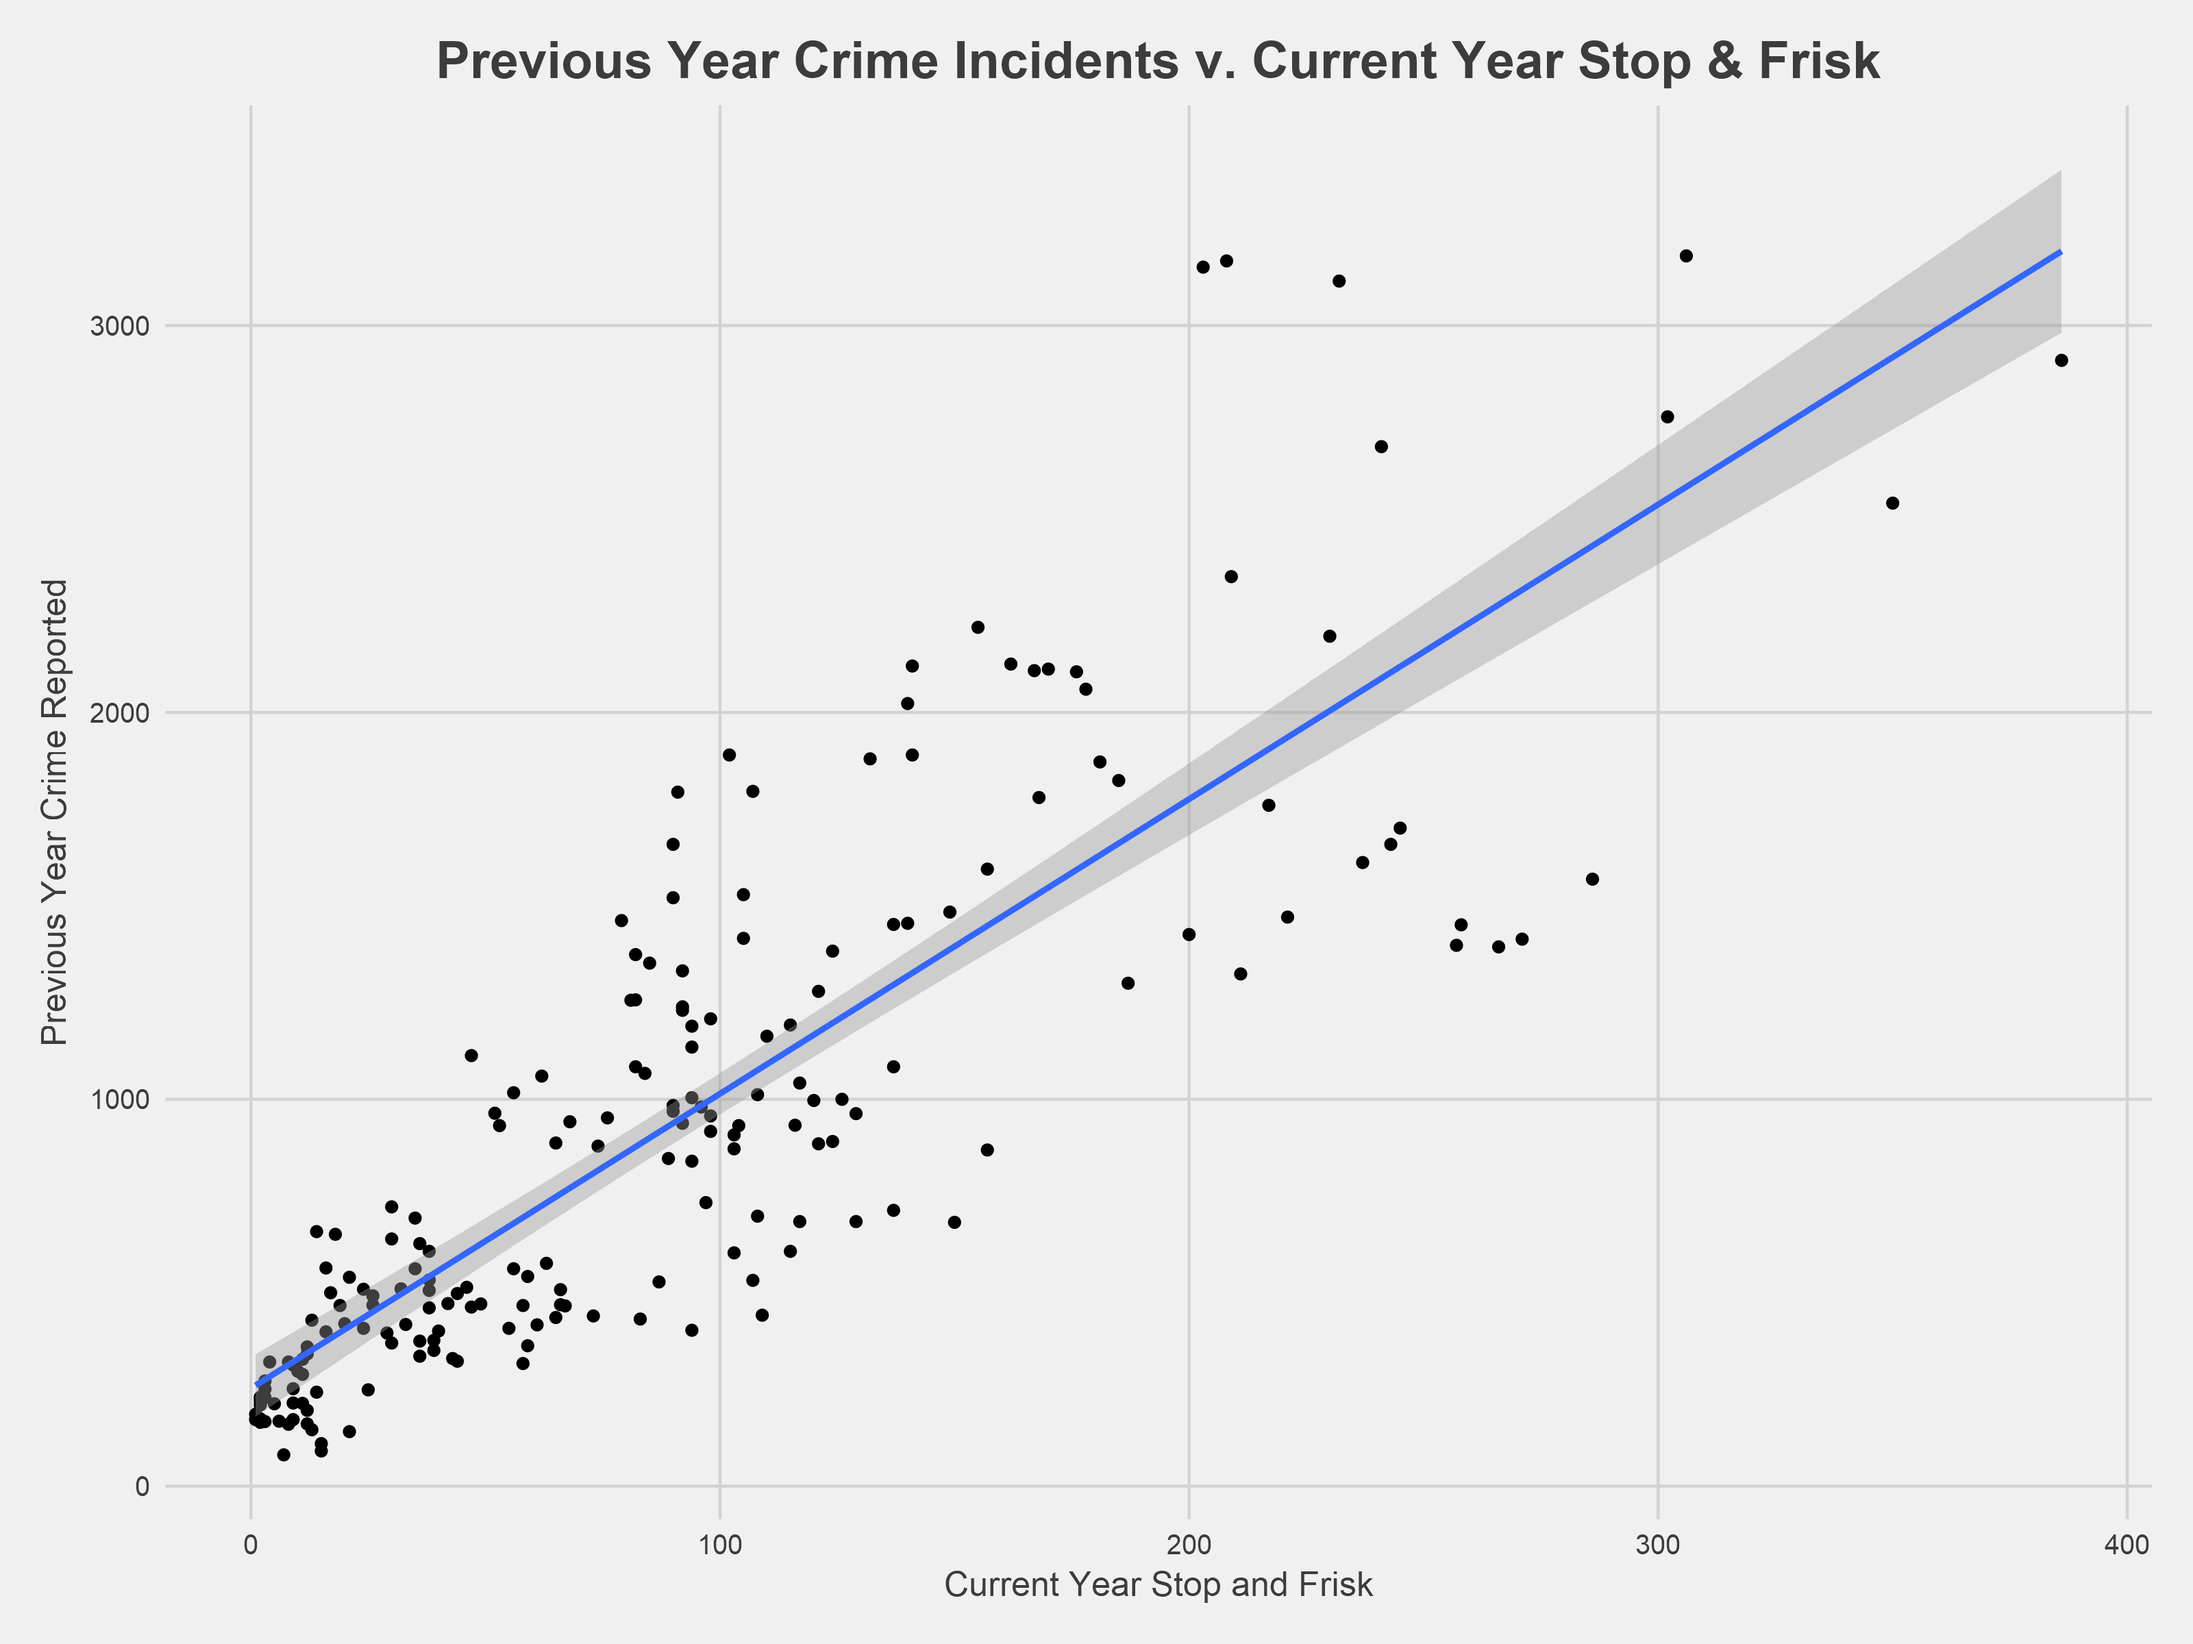
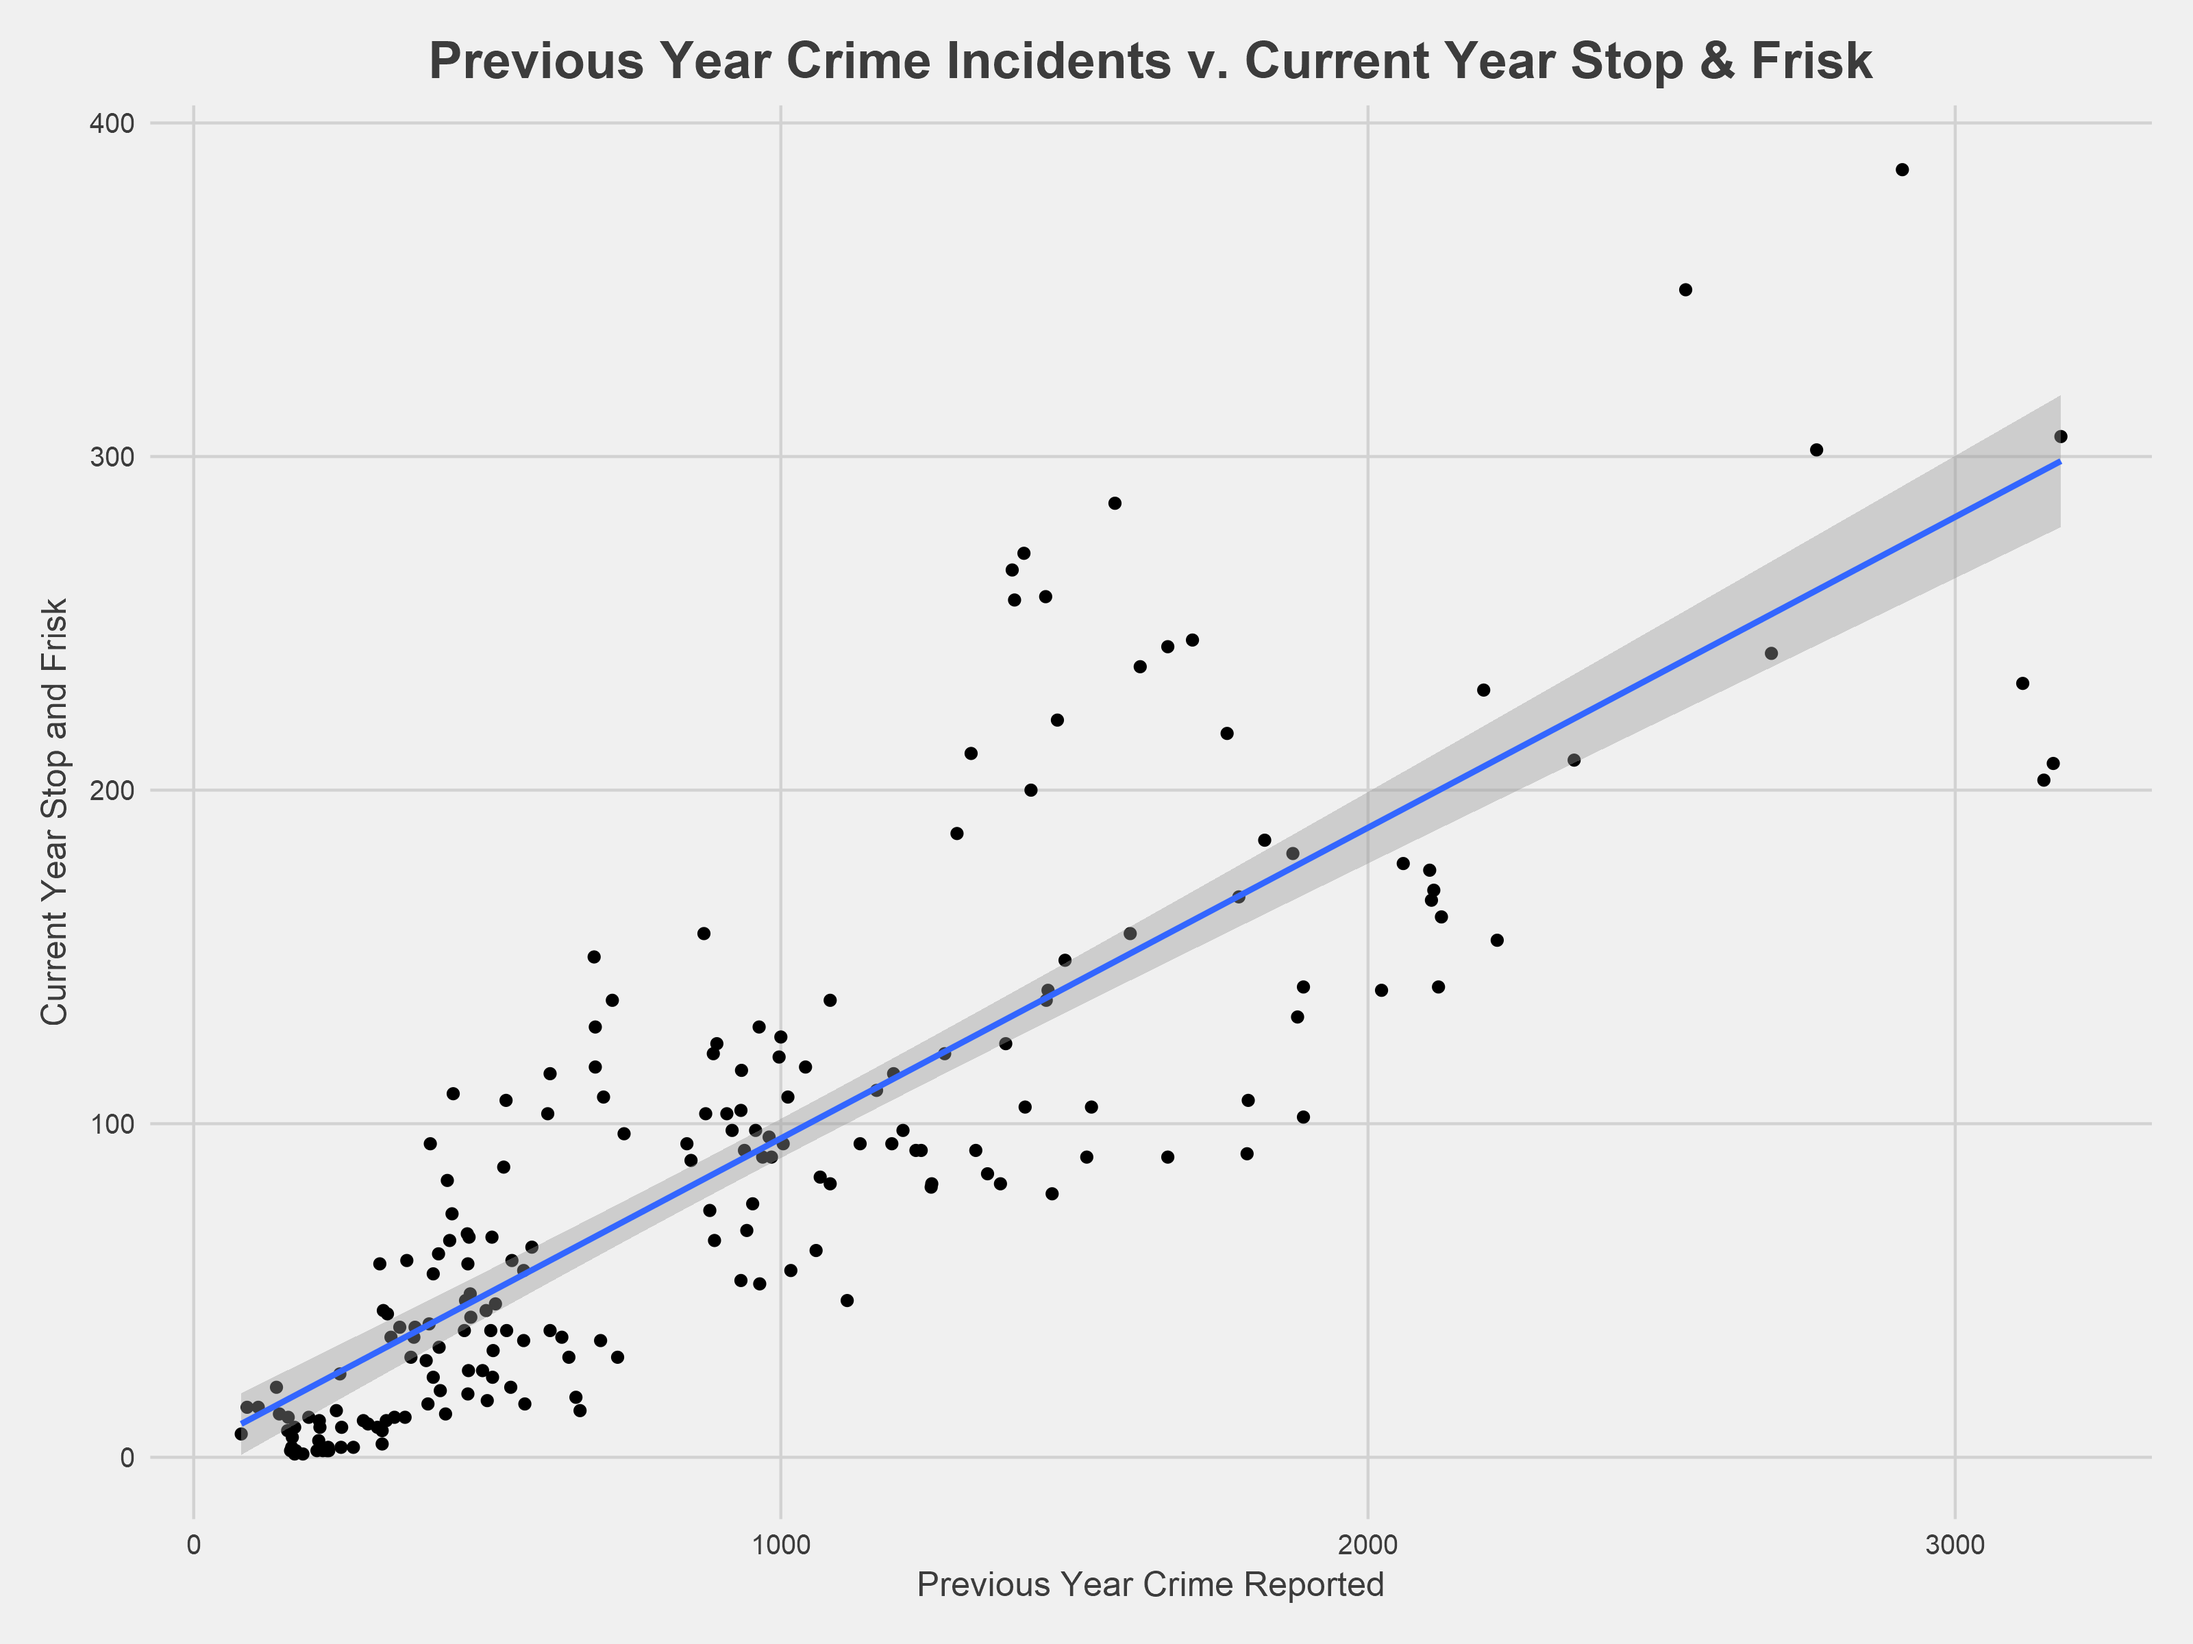
Stop & Frisk: Flipping Crime/Stop Scatter axes

diff --git a/_posts/2018-05-09-Stop-_-Frisk.md b/_posts/2018-05-09-Stop-_-Frisk.md
@@ -100,6 +100,7 @@ Once we were able to transform the addresses to latitude and longitude, for this
 <figure class="video_container">
 <iframe width="800" height="600" src="https://rawgit.com/mahkah/dc_stop_and_frisk/master/index.html" frameborder="0" allowfullscreen="true"></iframe>
 </figure>
+<br>
 
 Stop & Frisk: Neighborhoods
 --------------
@@ -113,7 +114,7 @@ The interactive visualization below lets you dig into some basic trends and demo
 <figure class="video_container">
 <iframe width="800" height="600" src="https://dc-stop-frisk.herokuapp.com/" frameborder="0" allowfullscreen="true"></iframe>
 </figure>
-
+<br>
 
 ![](https://raw.githubusercontent.com/GWarrenn/gwarrenn.github.io/drafts/images/stop_and_frisk/05_nbh_sf.gif)
 
@@ -144,6 +145,7 @@ The biggest disproportions are apparent in whiter, more affluent neighborhood cl
 Additionally, the table below lists out the actual numbers compared to the census 2010 proportions for each neighborhood in more searchable and accessible format for finding patterns by race within neighborhoods.
 
 <iframe src="https://gwarrenn.shinyapps.io/stop_frisk_neighborhood_summary/" style="border:none;width:1000px;height:500px;"></iframe>
+<br>
 
 The Relationship between Crime and Stop & Frisk
 --------------
